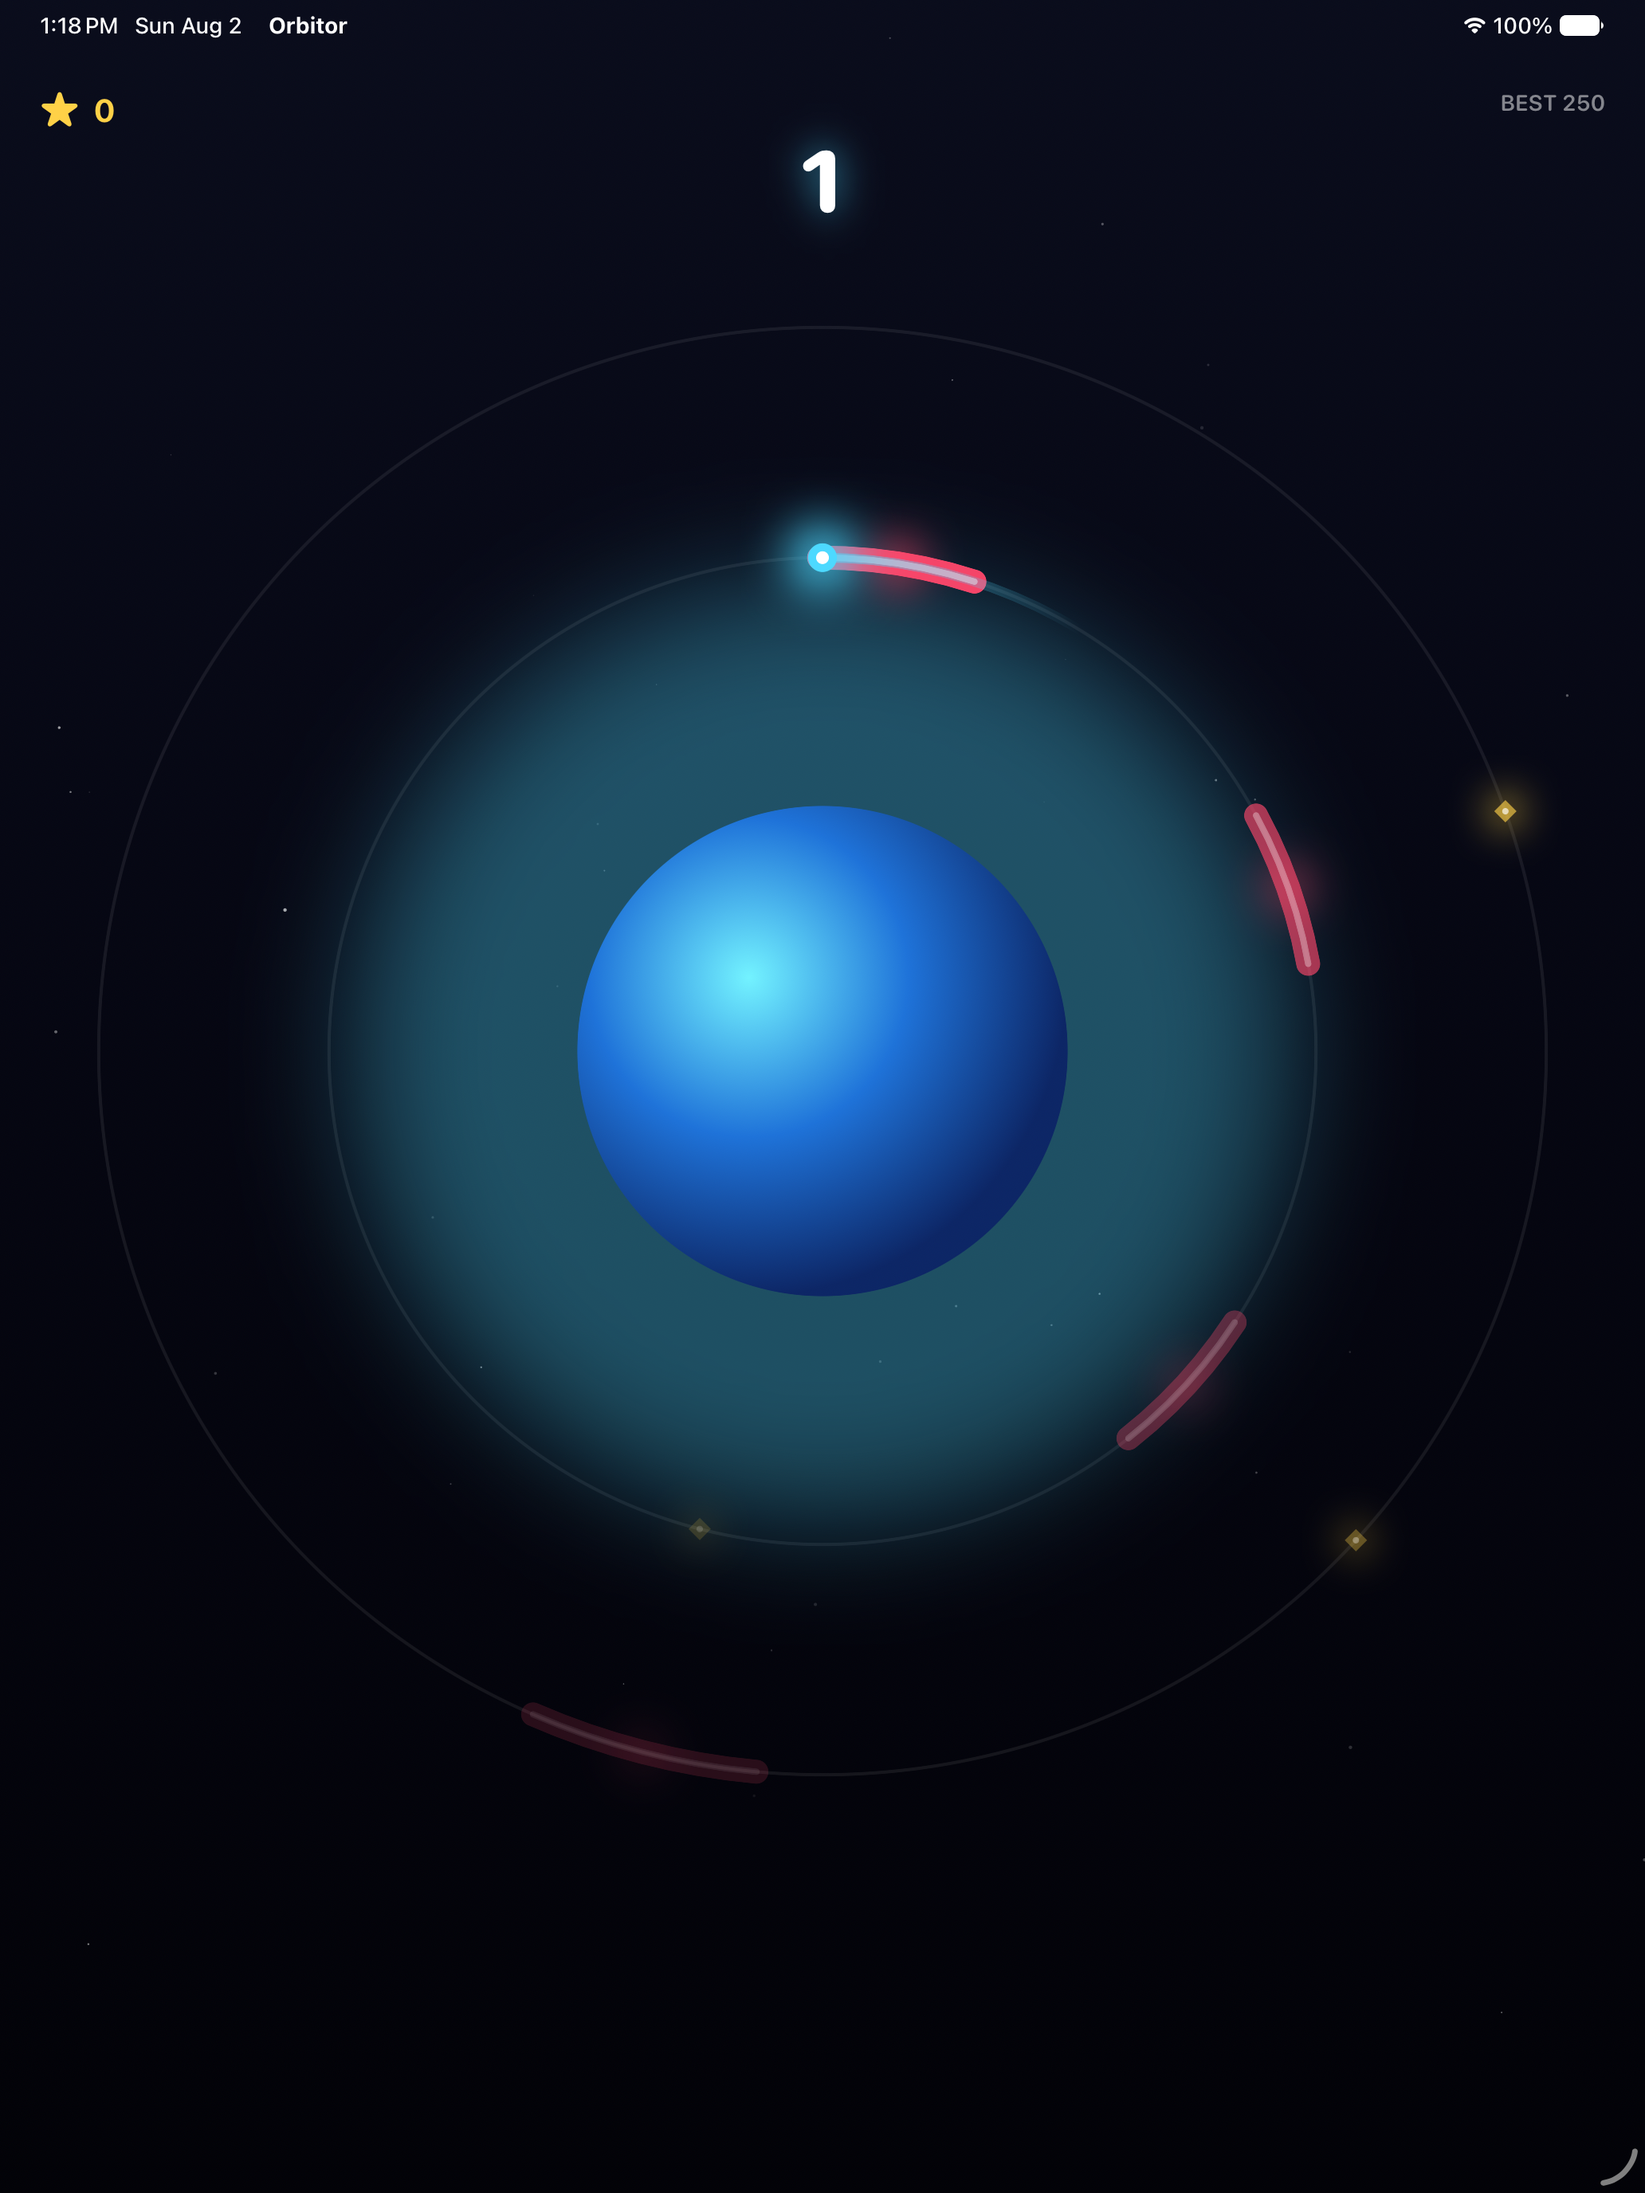
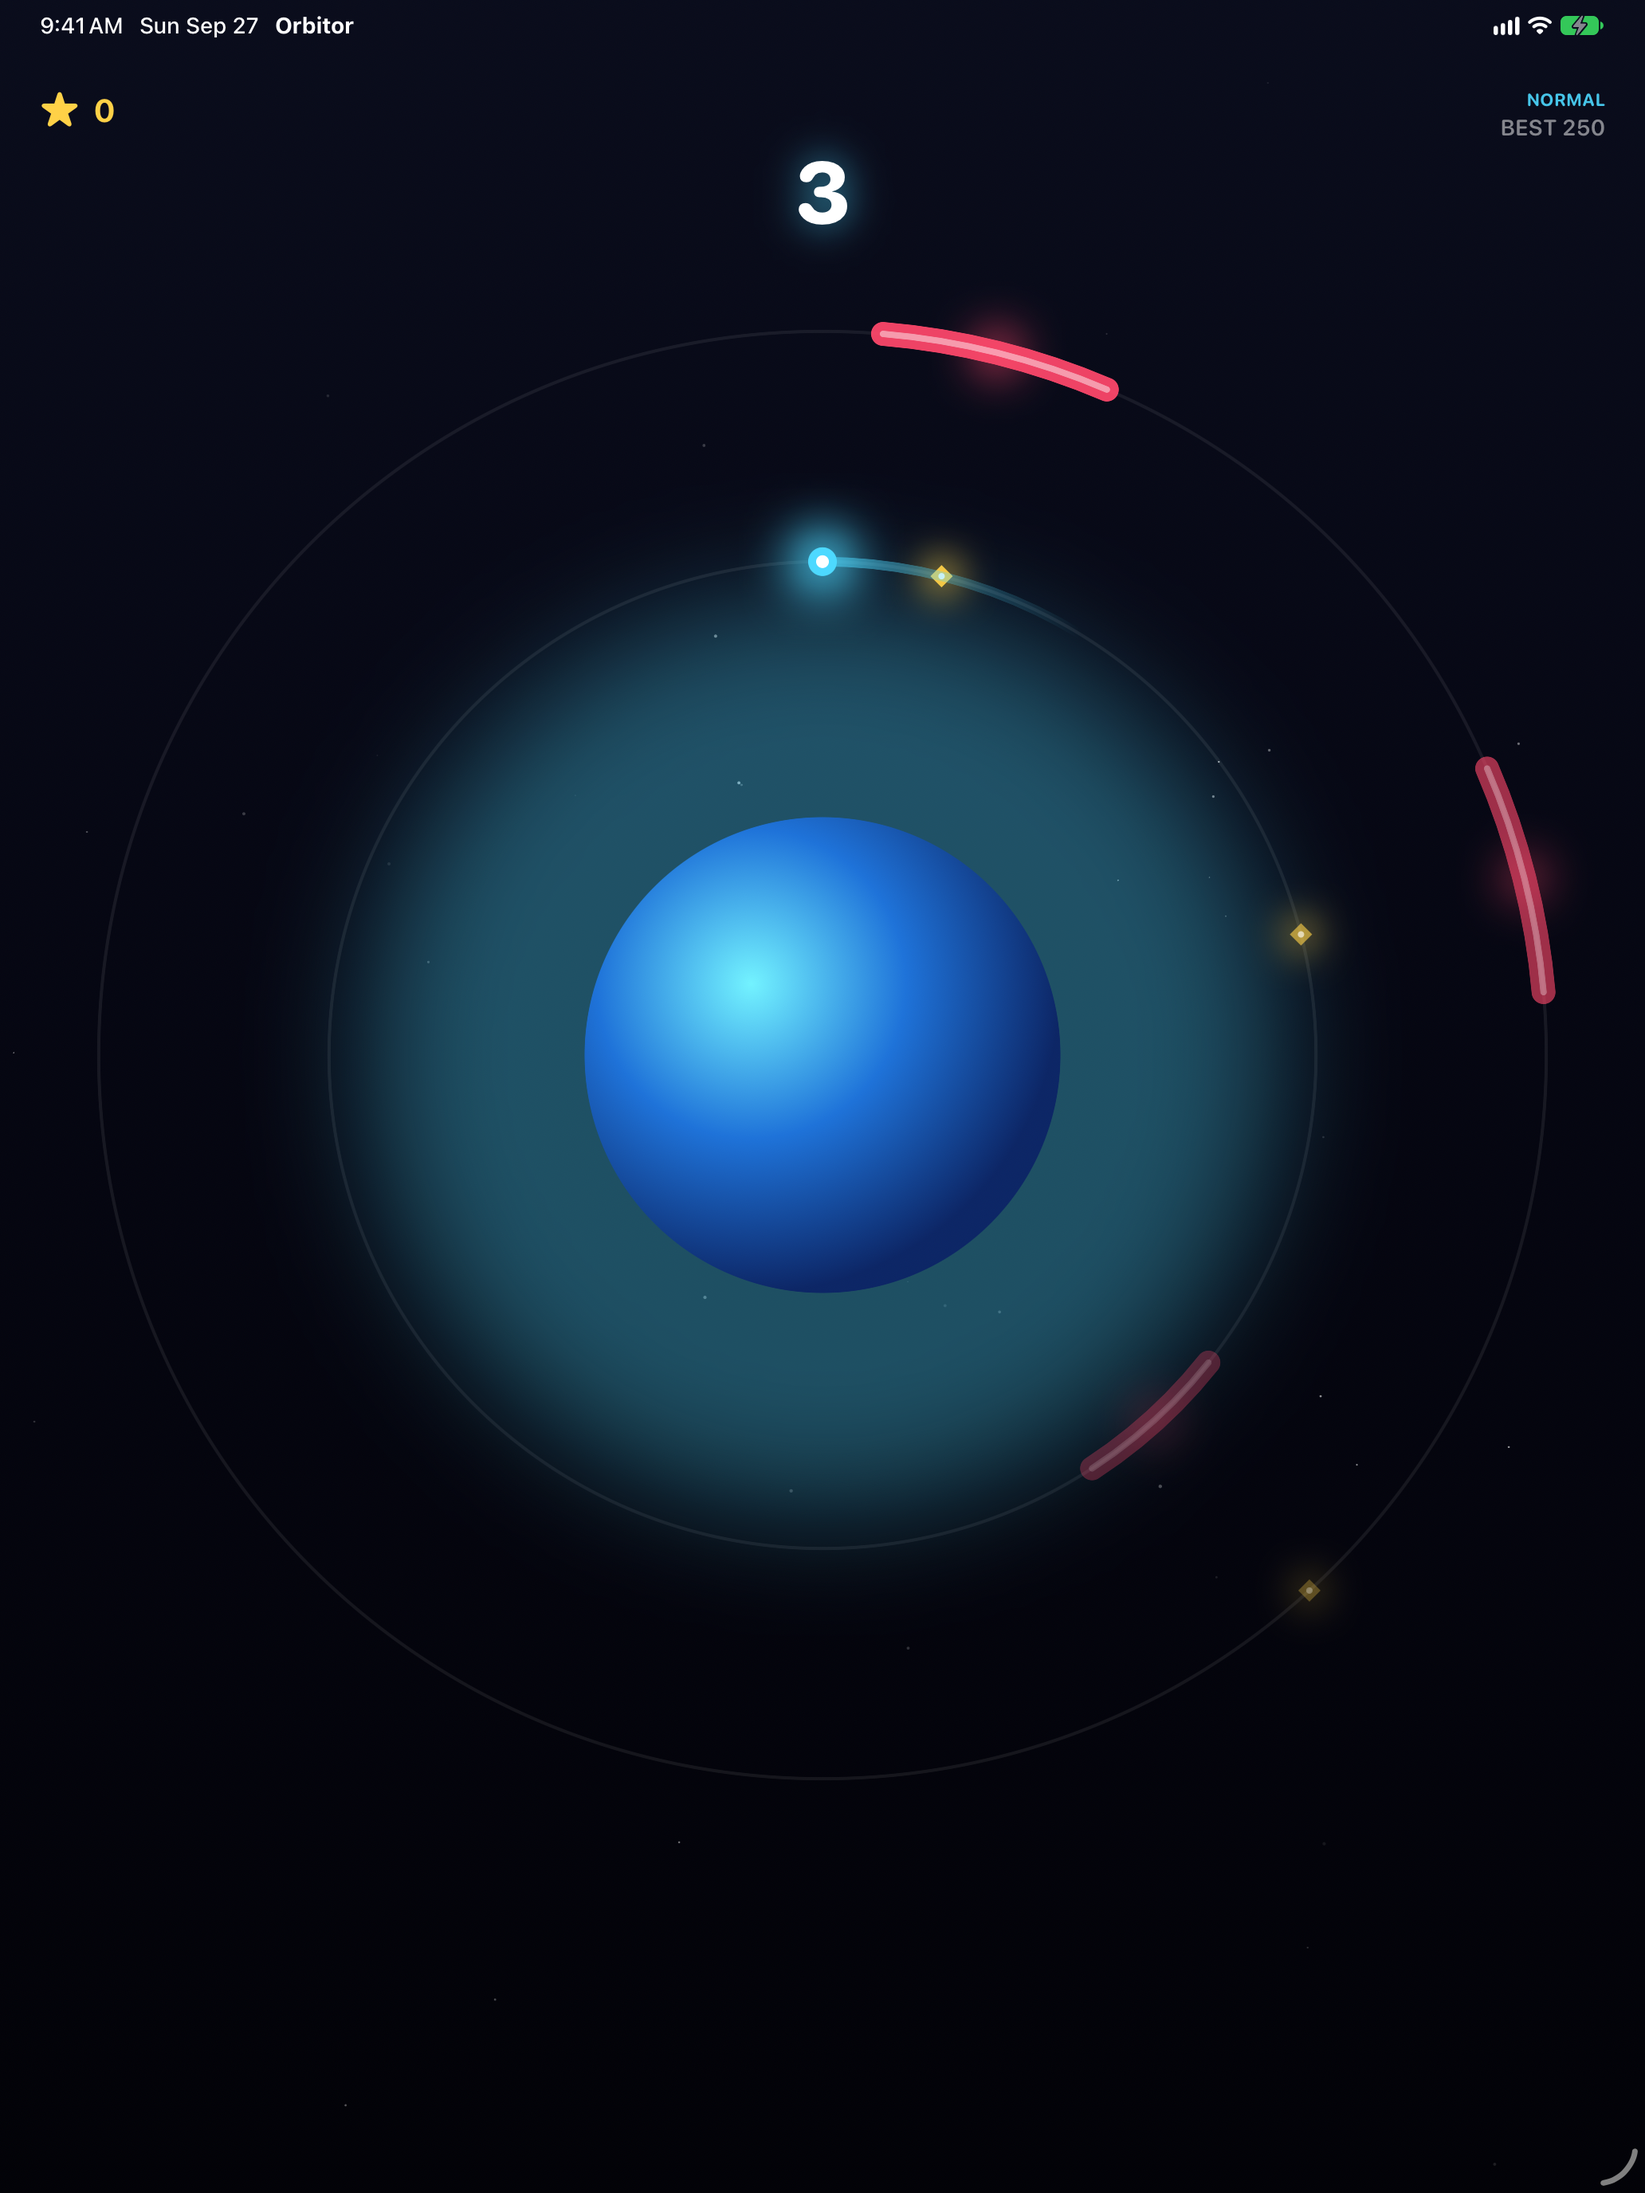
Refresh original store screenshots and v1.1 What's New notes

diff --git a/store/app-store-listing.md b/store/app-store-listing.md
@@ -35,6 +35,9 @@ No ads. No in-app purchases. No tracking. Pay once, orbit forever.
 
 How far can you go before gravity wins?
 
+## What's New (v1.1)
+`Choose your challenge: Easy, Normal, Hard, and Extreme are here, each with its own best score. Not happy with where you started? Start Over wipes your save for a clean run. Plus a tidier Star Shop.`
+
 ## What's New (v1.0)
 `Initial release. Tap in and chase your first high score.`
 
